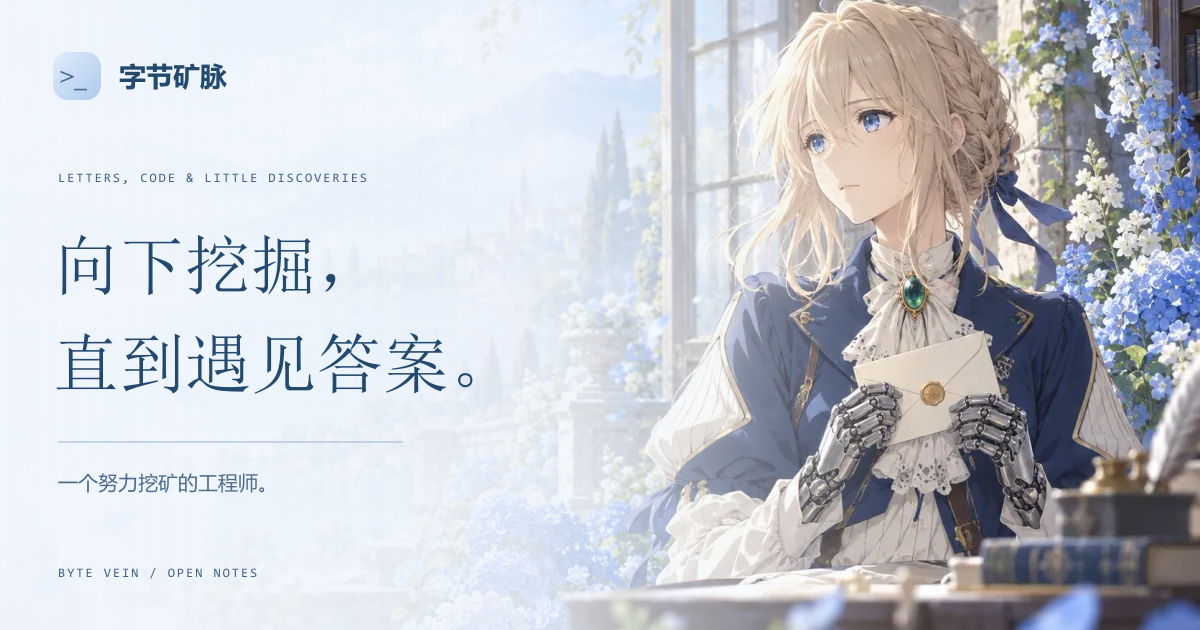
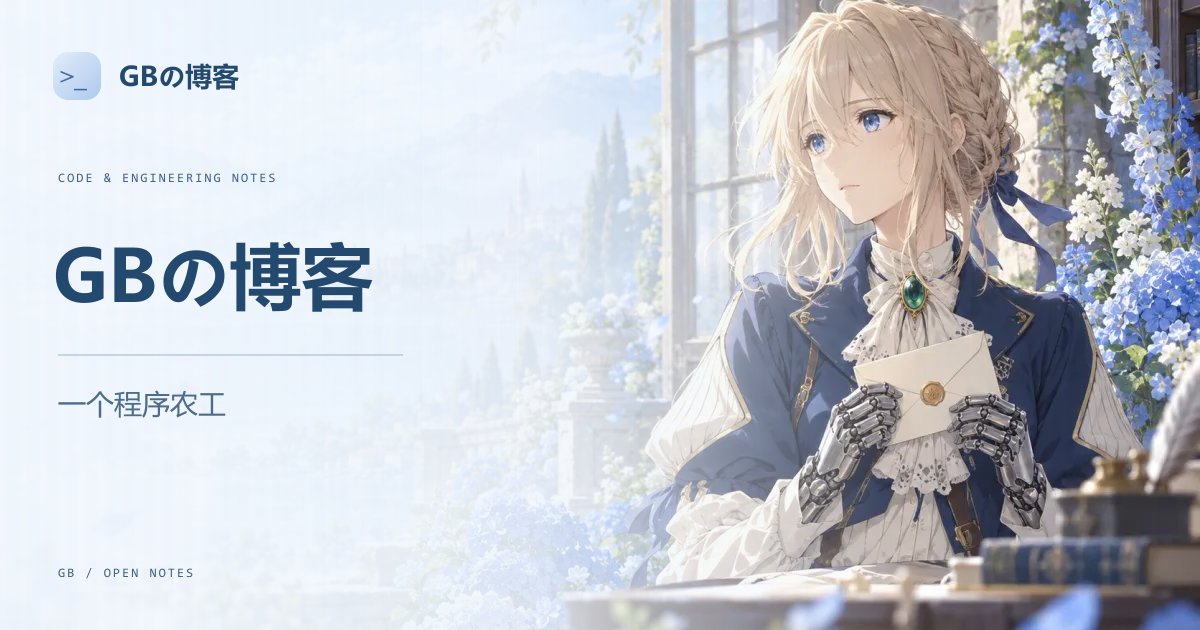
chore: rename blog to GBの博客

diff --git a/src/pages/about.md b/src/pages/about.md
@@ -1,13 +1,15 @@
 ---
 layout: ../layouts/PageLayout.astro
 title: 关于
-coverTitle: 挖掘复杂世界里值得留下的东西
+coverTitle: 关于 GBの博客
 comments: false
 ---
 
 ## 你好，我是 gbaxy
 
-一个努力挖矿的工程师。这里记录 Linux、嵌入式、音频框架和软件工程中的学习与实践。
+一个程序农工
+
+这里记录 Linux、嵌入式、音频框架和软件工程中的学习与实践。
 
 我希望留下问题的上下文、验证过程和设计取舍，让每篇笔记都能在下一次遇到相似问题时派上用场。
 

diff --git a/src/pages/now.md b/src/pages/now.md
@@ -7,6 +7,6 @@ comments: false
 
 ## 构建中
 
-把字节矿脉打磨成一个长期维护的工程笔记库。
+把 GBの博客打磨成一个长期维护的工程笔记库。
 
 持续整理 Linux 驱动、Audioreach 与系统编程笔记，让阅读、检索和后续维护更顺手。

diff --git a/README.md b/README.md
@@ -1,4 +1,6 @@
-# 字节矿脉 · Byte Vein
+# GBの博客
+
+一个程序农工
 
 gbaxy 的工程笔记，记录 Linux 驱动、系统编程、Audioreach 与工程实践。
 

diff --git a/src/pages/projects.md b/src/pages/projects.md
@@ -5,7 +5,7 @@ coverTitle: 正在挖掘的项目
 comments: false
 ---
 
-## 字节矿脉
+## GBの博客
 
 **持续构建 · 2026**
 
